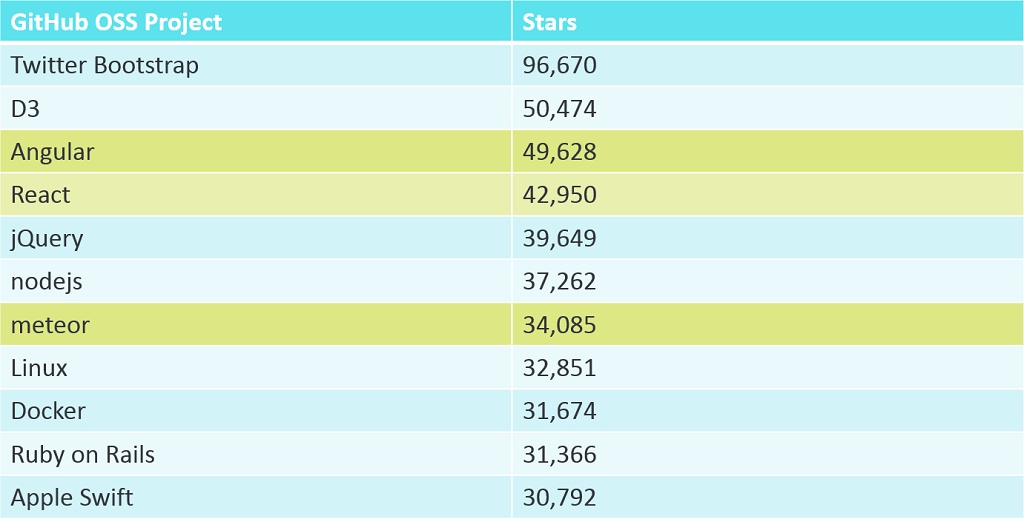
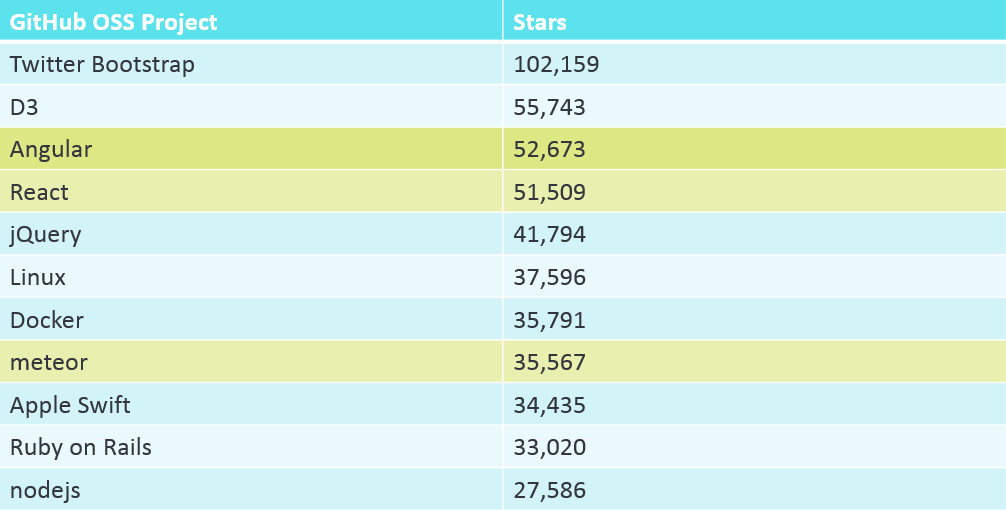
Final GitHub and Google Trends update.

diff --git a/index.html b/index.html
@@ -63,7 +63,7 @@
     </div>
 
 	<div id="popular" class="picture step" data-x="-1750" data-y="-3500" data-z="-3950" data-rotate-z="180" data-rotate-y="-60" data-scale="4">
-		<span class="bottom">Expurgated list, correct as of June 2016</span>
+		<span class="bottom">Expurgated list, correct as of October 2016</span>
 	</div>
 
     <div class="tiny step" data-x="5500" data-y="3000" data-z="-5000" data-rotate-x="225" data-rotate-y="10" data-rotate-z="190" data-scale="1">

diff --git a/react.css b/react.css
@@ -708,8 +708,8 @@ ul > li
 #popular {
     display: block;
 
-    width: 1024px;
-    height: 519px;
+    width: 1006px;
+    height: 510px;
     padding: 375px 0px;
 
     background-image: url("./images/popular.png");
